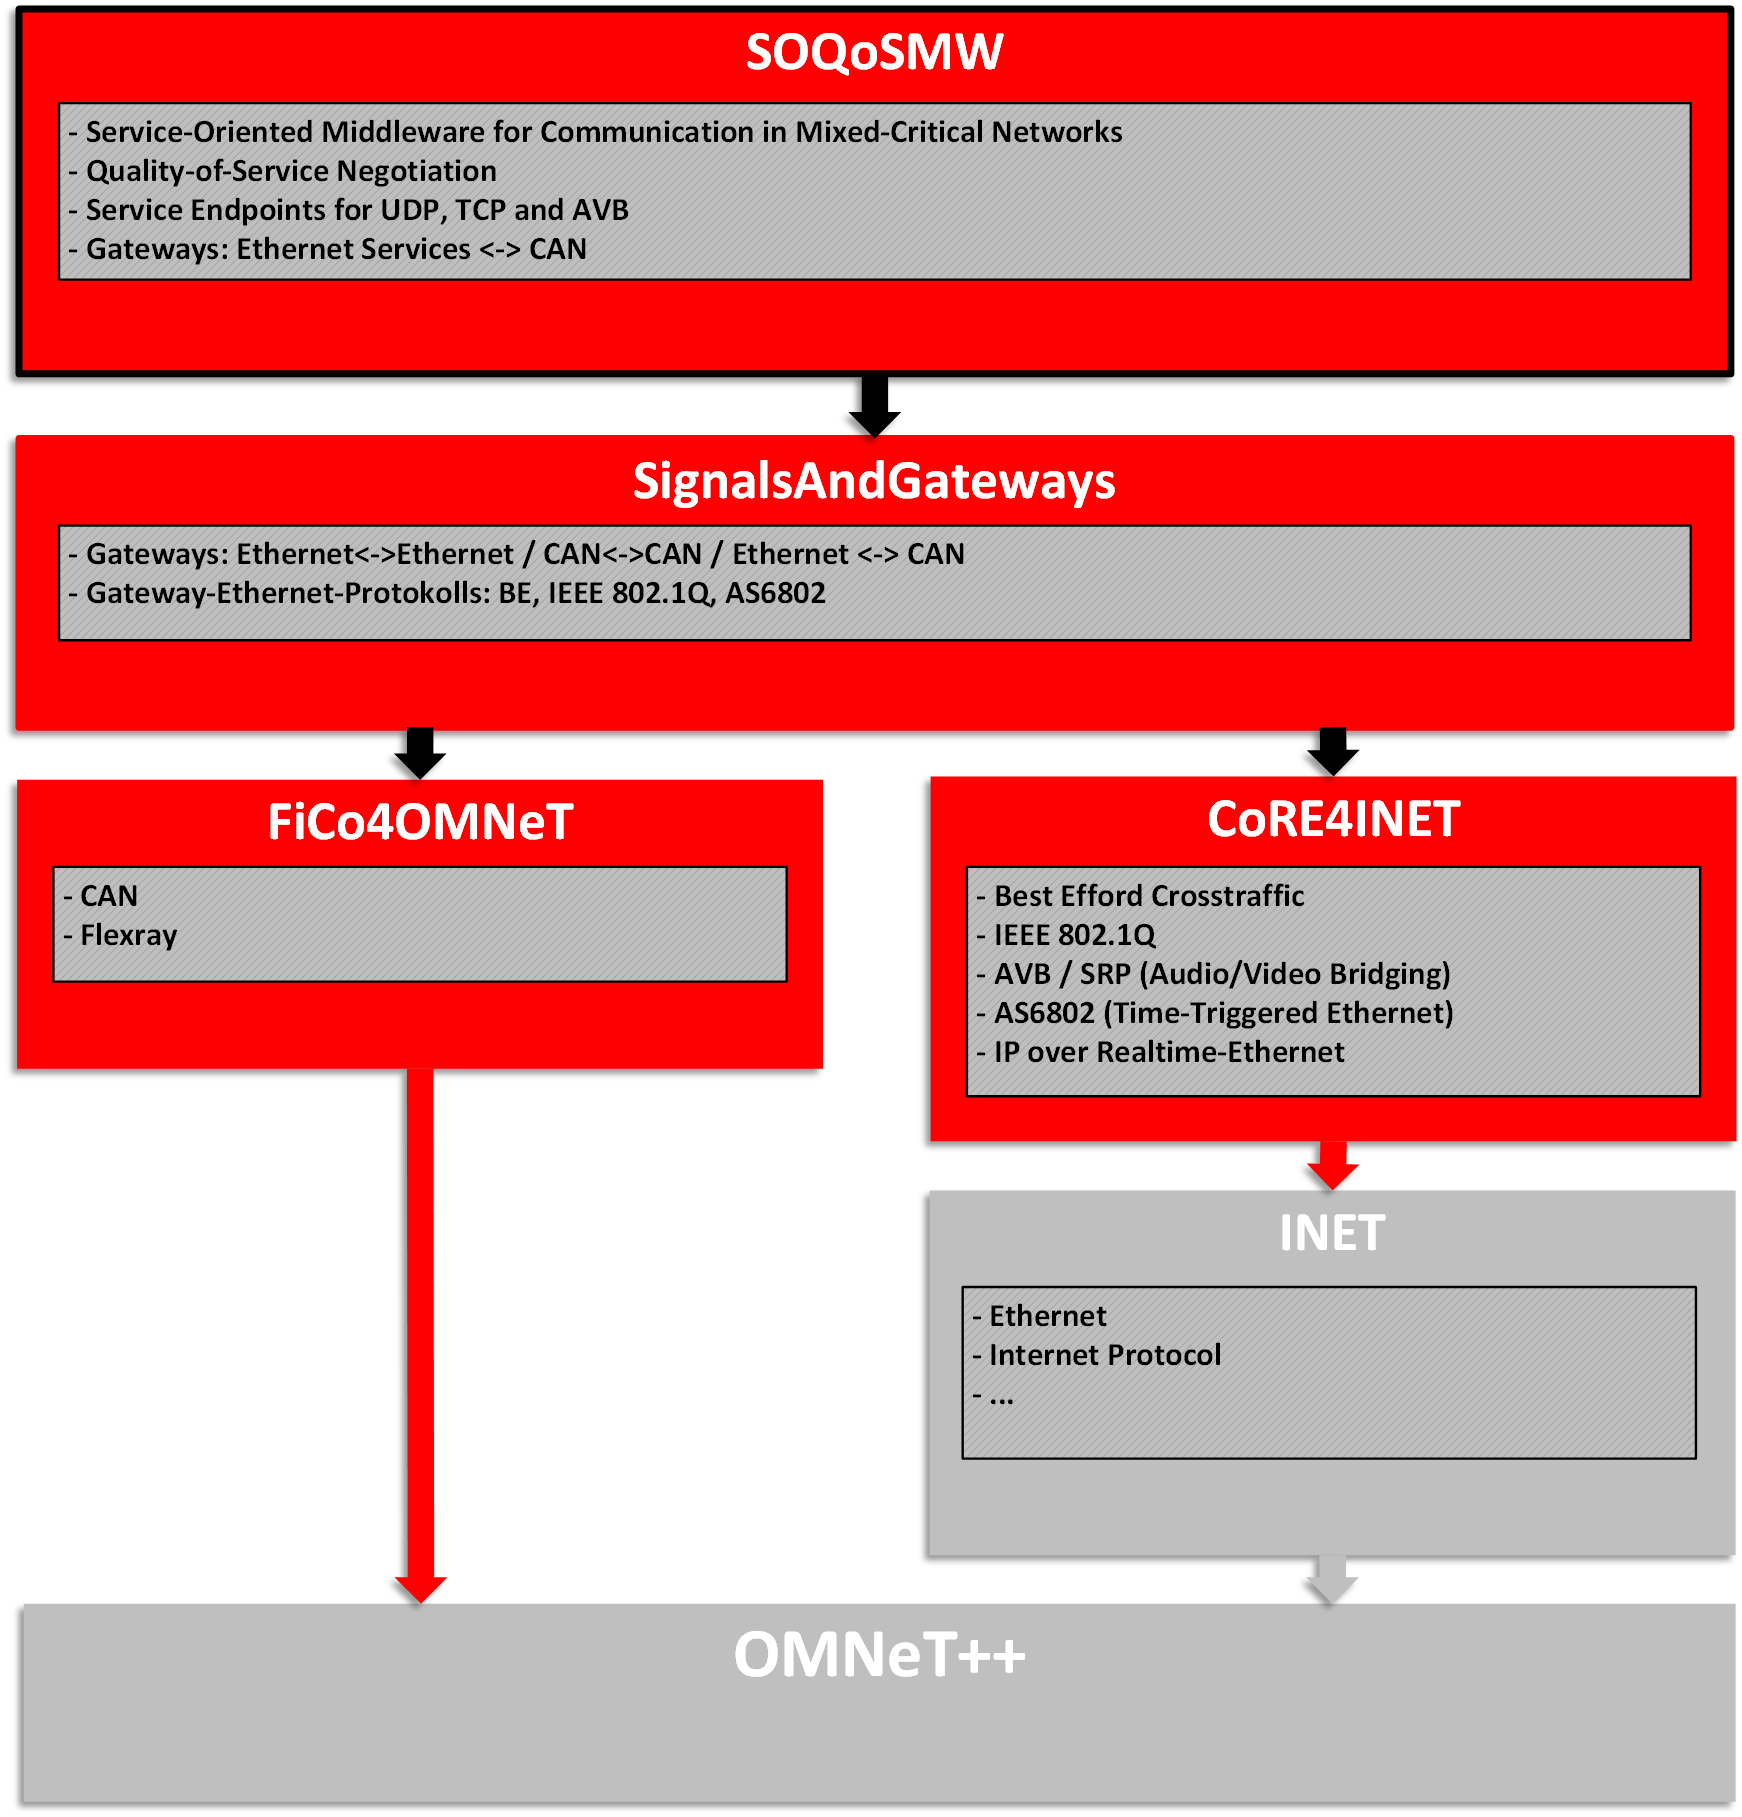
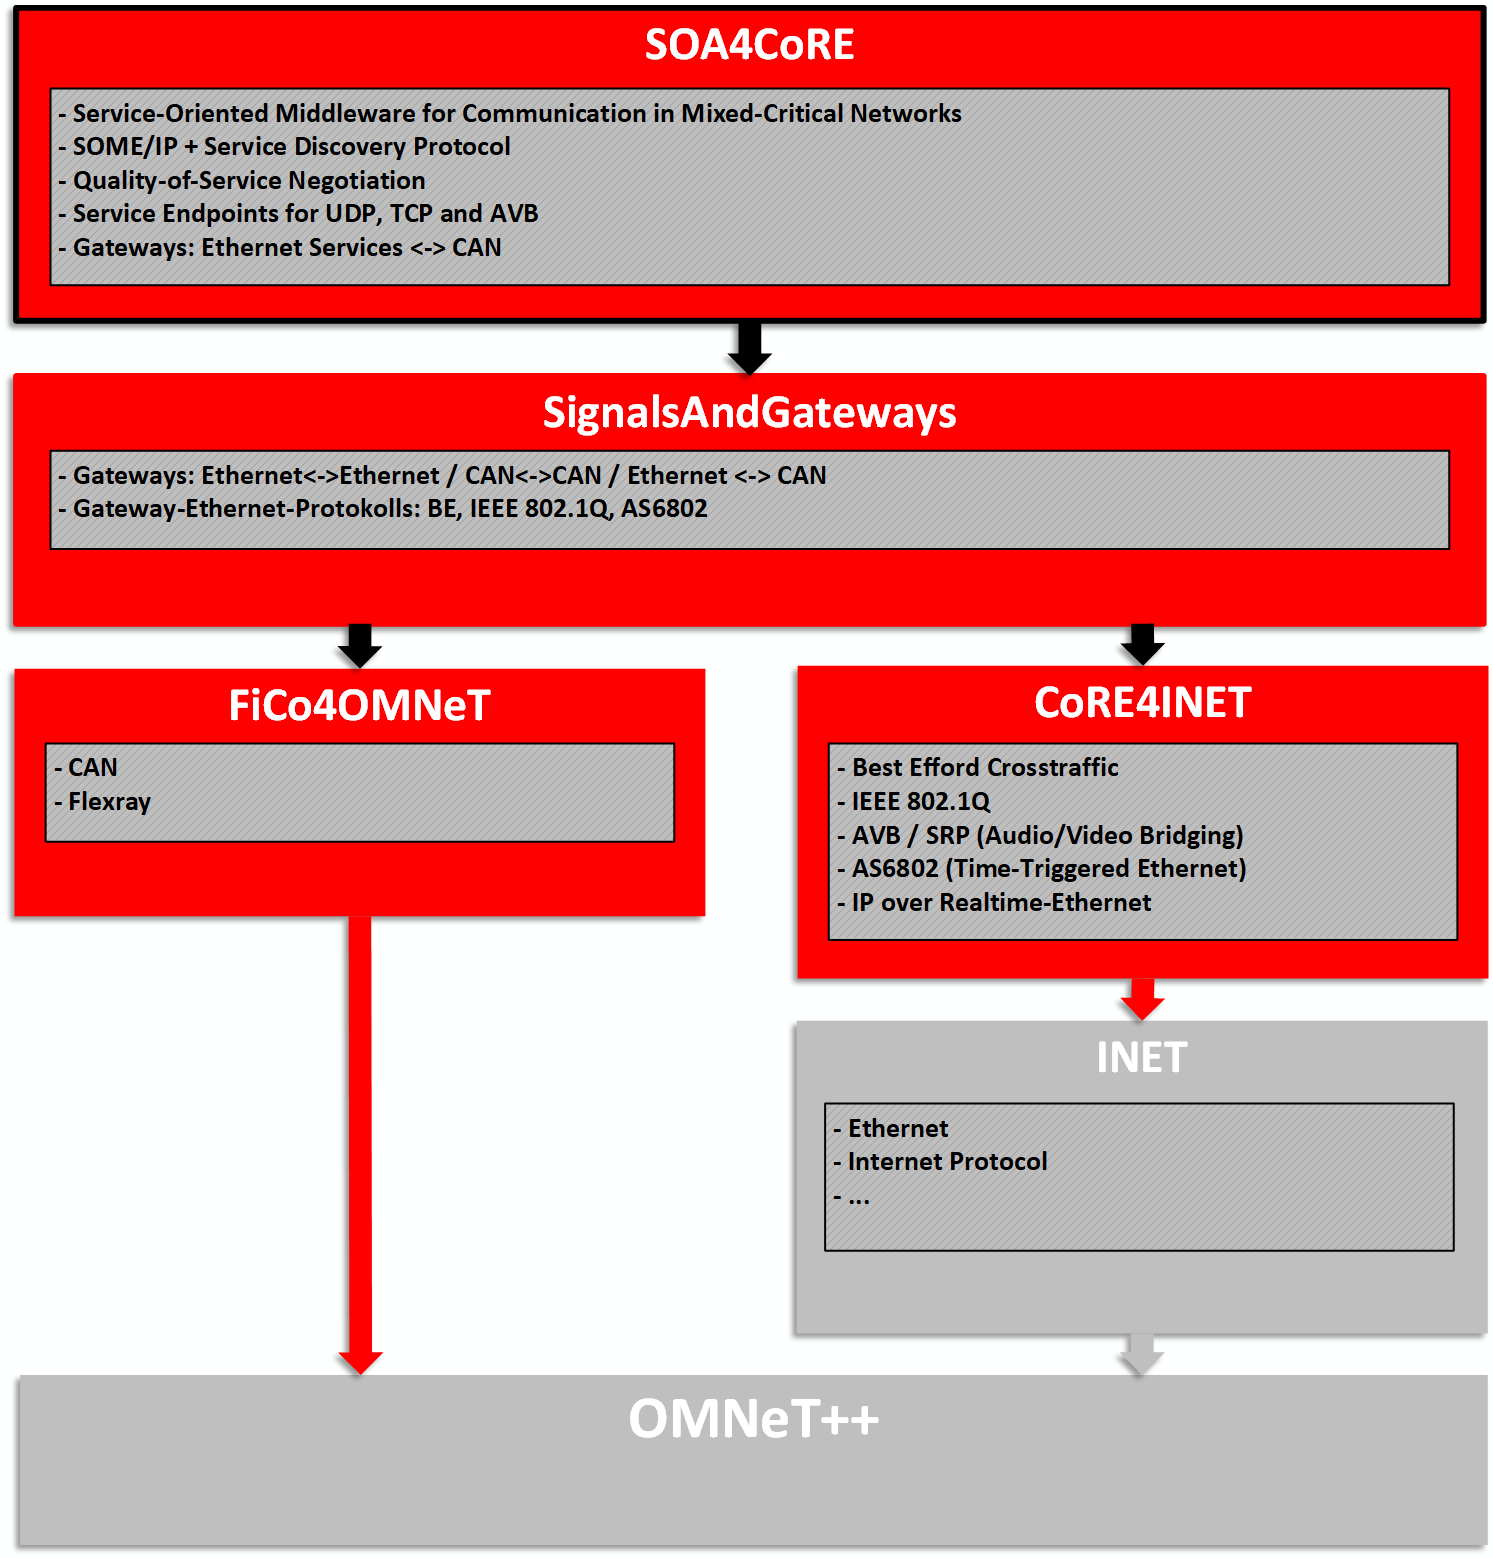
update documentation for release

diff --git a/README.md b/README.md
@@ -1,5 +1,5 @@
 # SOA4CoRE
-SOA4CoRE (Service-Oriented Quality-of-Service MiddleWare) is an open-source extension for the event-based simulation of service-oriented communication in real-time Ethernet networks in the [OMNEST/OMNeT++](https://omnetpp.org/) simulation system. It is based on the [INET-Framework](https://inet.omnetpp.org/), providing internet technologies, the [CoRE4INET Framework](https://github.com/CoRE-RG/CoRE4INET), providing real-time Ethernet protocols such as AS6802, AVB and TSN, and the SignalsAndGateway framework (https://github.com/CoRE-RG/SignalsAndGateways) providing gateways to legacy bus systems.
+SOA4CoRE (Service-Oriented Architecture for Communication over Realtime Ethernet) is an open-source extension for the event-based simulation of service-oriented communication in real-time Ethernet networks in the [OMNEST/OMNeT++](https://omnetpp.org/) simulation system and replaces the deprecated [SOQoSMW Framework](https://github.com/CoRE-RG/SOQoSMW). It is based on the [INET-Framework](https://inet.omnetpp.org/), providing internet technologies, the [CoRE4INET Framework](https://github.com/CoRE-RG/CoRE4INET), providing real-time Ethernet protocols such as AS6802, AVB and TSN, and the SignalsAndGateway framework (https://github.com/CoRE-RG/SignalsAndGateways) providing gateways to legacy bus systems.
 SOA4CoRE provides service-oriented middleware components, service applications and service endpoints for avb, tcp and udp. It was created by the [CoRE (Communication over Realtime Ethernet)](https://core-researchgroup.de/) at the [HAW-Hamburg (Hamburg University of Applied Sciences)](https://www.haw-hamburg.de/english.html).
 
 <img src="/doc/images/soa4core.png" alt="SOA4CoRE Environment" width="75%">
